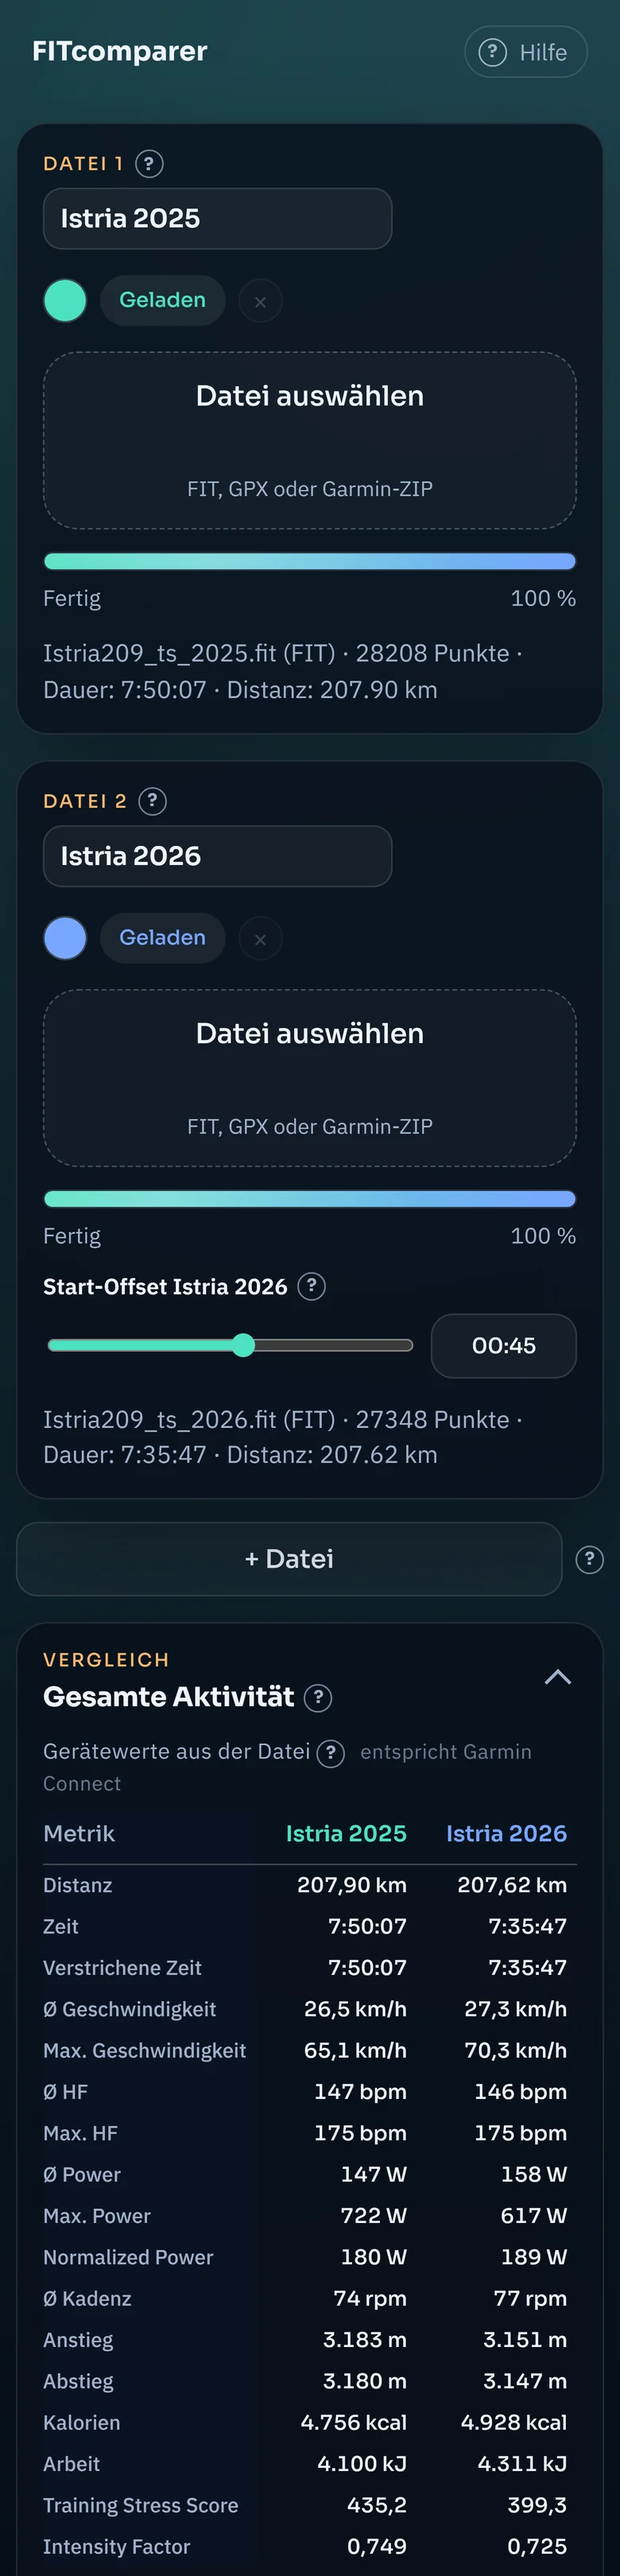
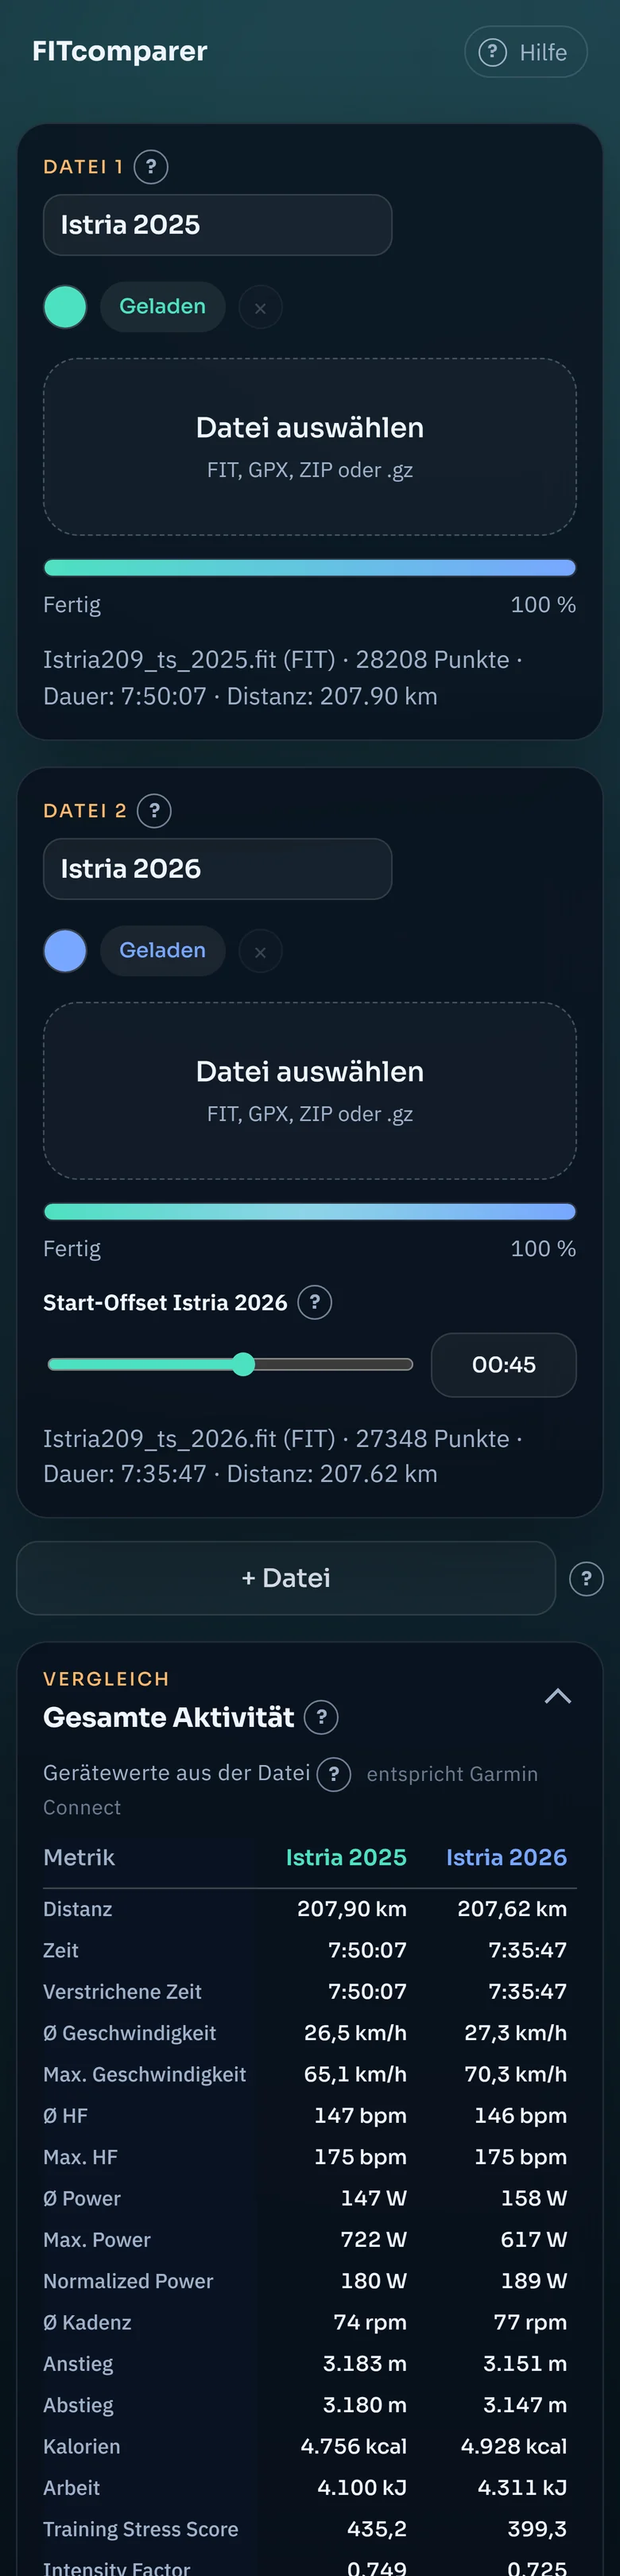
dragdrop

diff --git a/help.html b/help.html
@@ -31,9 +31,9 @@
   <link rel="preconnect" href="https://fonts.googleapis.com">
   <link rel="preconnect" href="https://fonts.gstatic.com" crossorigin>
   <link href="https://fonts.googleapis.com/css2?family=IBM+Plex+Sans:wght@400;500;600;700&family=Sora:wght@500;600;700;800&display=swap" rel="stylesheet">
-  <link rel="icon" href="./favicon.svg?v=8" type="image/svg+xml">
-  <link rel="icon" href="./favicon-32.png?v=8" sizes="32x32" type="image/png">
-  <link rel="apple-touch-icon" href="./apple-touch-icon.png?v=8">
+  <link rel="icon" href="./favicon.svg?v=12" type="image/svg+xml">
+  <link rel="icon" href="./favicon-32.png?v=12" sizes="32x32" type="image/png">
+  <link rel="apple-touch-icon" href="./apple-touch-icon.png?v=12">
   <meta name="theme-color" content="#07111d">
   <script type="application/ld+json">
 {
@@ -72,8 +72,8 @@
   ]
 }
   </script>
-  <link rel="stylesheet" href="./styles.css?v=8">
-  <link rel="stylesheet" href="./help.css?v=8">
+  <link rel="stylesheet" href="./styles.css?v=12">
+  <link rel="stylesheet" href="./help.css?v=12">
 </head>
 <body>
   <div class="backdrop backdrop-a"></div>
@@ -212,13 +212,13 @@
       <h3 id="dateien">Dateien laden, benennen, einfärben</h3>
       <p>Jede Aktivität hat eine eigene Karte. Insgesamt kannst du bis zu sechs Karten verwenden, mindestens zwei bleiben stehen.</p>
       <figure class="shot">
-        <img src="./docs/img/files.webp" width="1800" height="755" loading="lazy" alt="Zwei Dateikarten mit Anzeigename, Farbpunkt, Dateiauswahl und Start-Offset, markiert mit den Nummern 1 bis 5">
+        <img src="./docs/img/files.webp" width="1800" height="766" loading="lazy" alt="Zwei Dateikarten mit Anzeigename, Farbpunkt, Dateiauswahl und Start-Offset, markiert mit den Nummern 1 bis 5">
         <figcaption>Die Dateikarten.</figcaption>
       </figure>
       <ol class="callouts">
         <li><strong>Anzeigename.</strong> Hier kannst du die Aktivität frei umbenennen, zum Beispiel „Tobi 2025“ statt des Dateinamens. <strong>Der Name zieht sich überall durch</strong>: in die Tabellen, den Graphen, die Legende der Karte und ins exportierte Video.</li>
         <li><strong>Farbe.</strong> Klicke auf den Punkt und wähle die Farbe. Sie gilt für Karte, Graph, Tabellenköpfe und Video. Die Farbe bleibt bei der Datei, auch wenn du eine andere Karte entfernst.</li>
-        <li><strong>Datei auswählen.</strong> FIT, GPX oder das ZIP aus Garmin Connect.</li>
+        <li><strong>Datei auswählen.</strong> Klicke auf die Fläche oder <strong>ziehe die Datei einfach darauf</strong>. FIT, GPX, das ZIP aus Garmin Connect oder eine .gz-Datei.</li>
         <li><strong>Start-Offset.</strong> Erscheint ab der zweiten Karte, siehe unten.</li>
         <li><strong>+ Datei</strong> fügt eine weitere Aktivität hinzu. Mit dem × auf einer Karte entfernst du sie wieder.</li>
       </ol>
@@ -231,14 +231,14 @@
       </div>
       <p>Der Regler deckt ±10 Minuten ab. Im Textfeld daneben kannst du genauer und auch weiter weg einstellen: <code>mm:ss</code> oder nur Sekunden, negativ mit vorangestelltem Minus, zum Beispiel <code>-02:30</code>.</p>
       <figure class="shot shot-medium">
-        <img src="./docs/img/tooltip-offset.webp" width="1328" height="1328" loading="lazy" alt="Tooltip zum Start-Offset an einer Dateikarte">
+        <img src="./docs/img/tooltip-offset.webp" width="1328" height="1344" loading="lazy" alt="Tooltip zum Start-Offset an einer Dateikarte">
         <figcaption>Die Erklärung erscheint, wenn du das <span class="help-glyph-inline" aria-hidden="true">?</span> neben dem Offset berührst.</figcaption>
       </figure>
 
       <h3 id="tabellen">Die Vergleichstabellen</h3>
       <p>Das Panel „Gesamte Aktivität“ zeigt die Kennzahlen aller Dateien nebeneinander: Zeilen sind die Messwerte, Spalten die Dateien. Es gibt zwei Tabellen. Mit dem Pfeil oben rechts klappst du das ganze Panel ein, die untere Tabelle lässt sich zusätzlich einzeln einklappen.</p>
       <figure class="shot">
-        <img src="./docs/img/tables.webp" width="1800" height="1800" loading="lazy" alt="Gerätewerte und berechnete Werte im Vergleich, mit Abweichungs-Badges">
+        <img src="./docs/img/tables.webp" width="1800" height="1810" loading="lazy" alt="Gerätewerte und berechnete Werte im Vergleich, mit Abweichungs-Badges">
         <figcaption>Gerätewerte oben, nachgerechnete Werte darunter.</figcaption>
       </figure>
       <ol class="callouts">
@@ -249,7 +249,7 @@
 
       <h3 id="playback">Wiedergabe</h3>
       <figure class="shot">
-        <img src="./docs/img/playback.webp" width="1800" height="322" loading="lazy" alt="Wiedergabeleiste mit Sprungtasten, Tempo, Zeitfeld und Zeitleiste">
+        <img src="./docs/img/playback.webp" width="1800" height="325" loading="lazy" alt="Wiedergabeleiste mit Sprungtasten, Tempo, Zeitfeld und Zeitleiste">
         <figcaption>Die Wiedergabeleiste.</figcaption>
       </figure>
       <ol class="callouts">
@@ -273,7 +273,7 @@
       </ol>
       <p>Das Distanzfenster vergleicht <strong>denselben Streckenabschnitt</strong> für jede Datei, auch wenn die Aktivitäten ihn zu ganz unterschiedlichen Zeiten gefahren sind. Das ist der große Vorteil gegenüber dem reinen Zeitfenster.</p>
       <figure class="shot">
-        <img src="./docs/img/distance.webp" width="1800" height="1122" loading="lazy" alt="Panel Distanzfenster mit Abschnitt je Datei und Kennzahlen">
+        <img src="./docs/img/distance.webp" width="1800" height="1128" loading="lazy" alt="Panel Distanzfenster mit Abschnitt je Datei und Kennzahlen">
         <figcaption>Das Panel „Distanzfenster“.</figcaption>
       </figure>
       <ol class="callouts">
@@ -283,7 +283,7 @@
 
       <h3 id="graph">Graph und Zeitfenster</h3>
       <figure class="shot">
-        <img src="./docs/img/graph.webp" width="1800" height="2294" loading="lazy" alt="Graph mit aufgezogenem Zeitfenster, Playhead und dem Panel Zeitfenster">
+        <img src="./docs/img/graph.webp" width="1800" height="2305" loading="lazy" alt="Graph mit aufgezogenem Zeitfenster, Playhead und dem Panel Zeitfenster">
         <figcaption>Der Graph mit einem aufgezogenen Zeitfenster.</figcaption>
       </figure>
       <ol class="callouts">
@@ -298,7 +298,7 @@
       <p>Der Knopf „Als MP4 speichern“ über der Karte rendert die Karte mit allen Aktivitäten und ihren wandernden Markern über die gesamte Aktivität als Video. Das passiert in deinem Browser, es wird nichts hochgeladen.</p>
       <div class="shot-pair">
         <figure class="shot">
-          <img src="./docs/img/export-dialog.webp" width="1056" height="2654" loading="lazy" alt="Dialog Als MP4 speichern mit Tempo, Format, Auflösung, Ausschnitt-Vorschau und Export starten">
+          <img src="./docs/img/export-dialog.webp" width="1056" height="2660" loading="lazy" alt="Dialog Als MP4 speichern mit Tempo, Format, Auflösung, Ausschnitt-Vorschau und Export starten">
           <figcaption>Der Export-Dialog im Hochformat.</figcaption>
         </figure>
         <figure class="shot shot-frame">

diff --git a/app.js b/app.js
@@ -7,7 +7,7 @@
 
 import FitParser from 'https://esm.sh/fit-file-parser@3.0.2';
 import { gunzipSync, unzipSync } from 'https://esm.sh/fflate@0.8.2';
-import { initTooltips } from './tooltips.js?v=8';
+import { initTooltips } from './tooltips.js?v=12';
 import {
   ASPECTS,
   AUTO_VIEW,
@@ -21,7 +21,7 @@ import {
   setViewZoom,
   viewFromLatLngBounds,
   zoomView,
-} from './video-export.js?v=8';
+} from './video-export.js?v=12';
 
 const METRICS = [
   { key: 'heartRate', label: 'HR', unit: 'bpm', color: '#ff9f5c' },
@@ -402,6 +402,7 @@ function buildSlotCard(slot) {
 
 function bindSlotEvents(slot) {
   slot.el.file.addEventListener('change', () => handleFileSelection(slot));
+  bindFileDrop(slot);
   slot.el.remove.addEventListener('click', () => removeSlot(slot));
   slot.el.color.addEventListener('input', () => applySlotColor(slot, slot.el.color.value));
   bindTrackNameEditor(slot);
@@ -1076,6 +1077,47 @@ function initChart() {
   elements.chart.addEventListener('pointermove', handleChartPointerMove);
   elements.chart.addEventListener('pointerup', handleChartPointerUp);
   elements.chart.addEventListener('pointerleave', handleChartPointerLeave);
+}
+
+// Datei auf die Karte ziehen: dieselbe Verarbeitung wie "Datei auswaehlen".
+window.addEventListener('dragover', (event) => event.preventDefault());
+window.addEventListener('drop', (event) => event.preventDefault());
+
+function bindFileDrop(slot) {
+  const card = slot.el.card;
+  let depth = 0;
+  const hasFiles = (event) => Array.from(event.dataTransfer?.types ?? []).includes('Files');
+
+  card.addEventListener('dragenter', (event) => {
+    if (hasFiles(event)) {
+      depth += 1;
+      card.classList.add('is-dragover');
+    }
+  });
+  card.addEventListener('dragover', (event) => {
+    if (hasFiles(event)) {
+      event.preventDefault();
+      event.dataTransfer.dropEffect = 'copy';
+    }
+  });
+  card.addEventListener('dragleave', () => {
+    depth = Math.max(0, depth - 1);
+    if (!depth) {
+      card.classList.remove('is-dragover');
+    }
+  });
+  card.addEventListener('drop', (event) => {
+    if (!hasFiles(event)) {
+      return;
+    }
+    event.preventDefault();
+    depth = 0;
+    card.classList.remove('is-dragover');
+    if (event.dataTransfer.files.length) {
+      slot.el.file.files = event.dataTransfer.files;
+      handleFileSelection(slot);
+    }
+  });
 }
 
 async function handleFileSelection(slot) {

diff --git a/index.html b/index.html
@@ -32,9 +32,9 @@
   <link rel="preconnect" href="https://fonts.gstatic.com" crossorigin>
   <link href="https://fonts.googleapis.com/css2?family=IBM+Plex+Sans:wght@400;500;600;700&family=Sora:wght@500;600;700;800&display=swap" rel="stylesheet">
   <link rel="stylesheet" href="https://unpkg.com/leaflet@1.9.4/dist/leaflet.css">
-  <link rel="icon" href="./favicon.svg?v=8" type="image/svg+xml">
-  <link rel="icon" href="./favicon-32.png?v=8" sizes="32x32" type="image/png">
-  <link rel="apple-touch-icon" href="./apple-touch-icon.png?v=8">
+  <link rel="icon" href="./favicon.svg?v=12" type="image/svg+xml">
+  <link rel="icon" href="./favicon-32.png?v=12" sizes="32x32" type="image/png">
+  <link rel="apple-touch-icon" href="./apple-touch-icon.png?v=12">
   <meta name="theme-color" content="#07111d">
   <script type="application/ld+json">
 {
@@ -69,7 +69,7 @@
   ]
 }
   </script>
-  <link rel="stylesheet" href="./styles.css?v=8">
+  <link rel="stylesheet" href="./styles.css?v=12">
 </head>
 <body>
   <div class="backdrop backdrop-a"></div>
@@ -110,6 +110,7 @@
         <label class="file-drop">
           <input type="file" data-role="file" accept=".gpx,.fit,.zip,.gz,application/gzip,application/gpx+xml,application/zip,application/x-zip-compressed,application/octet-stream" hidden>
           <span>Datei auswählen</span>
+          <small class="drop-hint">oder hierher ziehen</small>
           <small>FIT, GPX, ZIP oder .gz</small>
         </label>
         <div class="file-progress">
@@ -383,6 +384,6 @@
 
   <script src="https://unpkg.com/leaflet@1.9.4/dist/leaflet.js"></script>
   <script src="https://cdn.jsdelivr.net/npm/chart.js@4.4.3/dist/chart.umd.min.js"></script>
-  <script type="module" src="./app.js?v=8"></script>
+  <script type="module" src="./app.js?v=12"></script>
 </body>
 </html>

diff --git a/tooltips.js b/tooltips.js
@@ -15,7 +15,7 @@ export const HELP = {
   file: {
     title: 'Dateien laden und benennen',
     body: [
-      'Wähle eine FIT-Datei, eine GPX-Datei oder direkt das ZIP aus Garmin Connect (Zahnrad → „Datei exportieren"). FIT-Dateien von Wahoo, COROS, Suunto, Polar, Strava und anderen funktionieren genauso, auch als .gz. Die Datei wird nur in deinem Browser verarbeitet.',
+      'Wähle eine FIT-Datei, eine GPX-Datei oder direkt das ZIP aus Garmin Connect (Zahnrad → „Datei exportieren"). FIT-Dateien von Wahoo, COROS, Suunto, Polar, Strava und anderen funktionieren genauso, auch als .gz. Du kannst sie auch einfach auf die Karte ziehen. Die Datei wird nur in deinem Browser verarbeitet.',
       'Den Namen kannst du frei ändern, zum Beispiel in „Tobi 2025". Er erscheint überall: in den Tabellen, im Graphen, in der Kartenlegende und im exportierten Video.',
       'Der Farbpunkt legt die Farbe der Aktivität fest, mit × entfernst du die Datei wieder.',
     ],

diff --git a/styles.css b/styles.css
@@ -295,6 +295,7 @@ h2 {
 .file-drop {
   display: grid;
   place-items: center;
+  align-content: center;
   gap: 6px;
   min-height: 154px;
   border: 1.5px dashed rgba(159, 177, 201, 0.35);
@@ -310,6 +311,12 @@ h2 {
   background: rgba(77, 225, 193, 0.05);
 }
 
+.is-dragover .file-drop {
+  border-style: solid;
+  border-color: var(--accent-a);
+  background: rgba(77, 225, 193, 0.1);
+}
+
 .file-drop span {
   font-family: "Sora", sans-serif;
   font-size: 1.08rem;
@@ -317,6 +324,13 @@ h2 {
 
 .file-drop small {
   color: var(--muted);
+}
+
+/* Auf Touch-Geraeten gibt es kein Ziehen von Dateien. */
+@media (hover: none) {
+  .file-drop .drop-hint {
+    display: none;
+  }
 }
 
 .meta {

diff --git a/README.md b/README.md
@@ -11,6 +11,7 @@ Vergleiche Aktivitäten von Garmin, Wahoo, COROS, Suunto, Polar, Strava und ande
 - **Zwei bis sechs Aktivitäten** gleichzeitig vergleichen, jede mit eigenem Namen und eigener Farbe.
 - **Gerätewerte wie in Garmin Connect** (aus der Zusammenfassung der FIT-Datei) und daneben **nachgerechnete Werte** aus den Sekundenwerten, inklusive Abweichungsanzeige.
 - **Zeit- und Distanzfenster:** Kennzahlen für einen beliebigen Abschnitt, auch wenn die Aktivitäten ihn zu verschiedenen Zeiten gefahren sind.
+- **Dateien per Drag & Drop** auf die Dateikarte ziehen oder über „Datei auswählen“ laden.
 - **Start-Offset**, um ungleiche Startzeiten bei Rennen oder gemeinsamen Ausfahrten auszugleichen.
 - **Wiedergabe** mit wandernden Markern auf der Karte, Graph für Puls, Leistung, Geschwindigkeit, Distanz, Kadenz und Höhe.
 - **MP4-Export** in 16:9, 4:3, 1:1, 4:5 und 9:16 mit frei wählbarem Kartenausschnitt.
